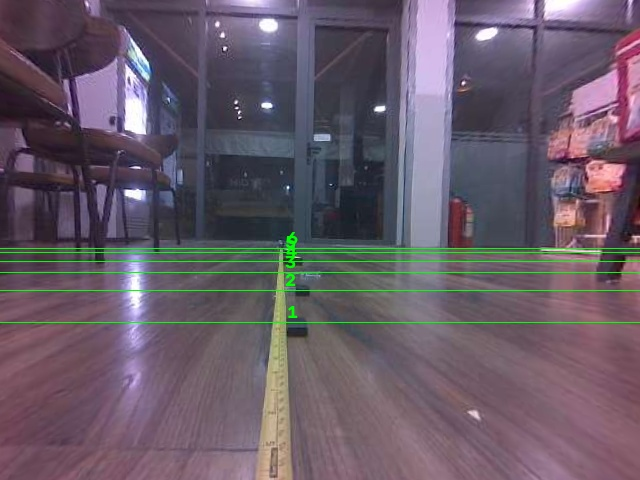
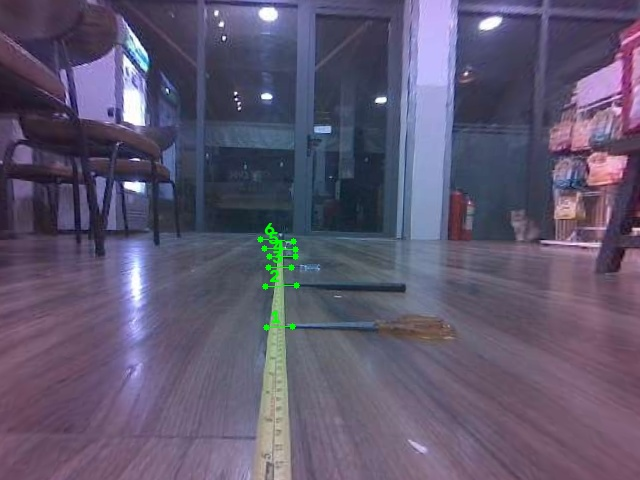
Camera pose: H_cam 0.101 m, pitch 2.6 deg down (1.5 m mark excluded as an outlier); roll and click-order handling, tape_angle tool

diff --git a/tools/measure_camera_pose.py b/tools/measure_camera_pose.py
@@ -3,7 +3,7 @@
   1. Robot on a level floor, camera as it will be used (wedge on or off: do both, one --tag each). Lay tape strips across the floor straight ahead
      of the lens at the distances in --marks, measured from the point on the floor directly UNDER THE LENS (plumb line: a weight on a string).
   2. python -m tools.measure_camera_pose --marks 0.3 0.5 0.75 1.0 1.5 2.0 --h-tape 0.105 --tag nowedge
-     It grabs a frame from the robot (or --image file), undistorts it with calib/camera.json, and you click the near edge of each strip in the
+     It grabs a frame from the robot (or --image file), undistorts it with calib/camera.json, and you click the two ENDS of the near edge of each strip (left, right) in the
      order of --marks (u = undo, Enter = done). It fits H_cam and the pitch of  d = H / tan(pitch + atan((v - cy) / fy)).
   3. --h-tape is the lens height measured with a tape: the fit must agree within 1.5 cm (a tape cannot find a fisheye lens's optical centre better than that), otherwise a mark or a distance is wrong.
 Writes calib/camera_pose_<tag>.json and an annotated picture next to it (evidence: copy to reports/<handle>/week-NN/).
@@ -39,18 +39,38 @@ def undistorted(img, cam):
     return cv2.remap(img, m1, m2, cv2.INTER_LINEAR)
 
 
+def centre_rows(pts, cx, cy=None):
+    """pts: 2 clicks per strip (one at each end). -> rows at x = cx, slopes (deg), roll (deg).
+    The median slope is taken as camera roll and the clicks are rotated about (cx, cy) by -roll first; a strip that still deviates from it is a badly laid strip."""
+    pts = [q for a, b in zip(pts[0::2], pts[1::2]) for q in sorted([a, b])]   # left end first, whichever end was clicked first
+    slopes = [math.degrees(math.atan2(y2 - y1, x2 - x1)) for (x1, y1), (x2, y2) in zip(pts[0::2], pts[1::2])]
+    roll = float(np.median(slopes)) if cy is not None else 0.0
+    if roll:
+        c, s_ = math.cos(math.radians(-roll)), math.sin(math.radians(-roll))
+        pts = [(cx + c * (x - cx) - s_ * (y - cy), cy + s_ * (x - cx) + c * (y - cy)) for x, y in pts]
+    rows = []
+    for (x1, y1), (x2, y2) in zip(pts[0::2], pts[1::2]):
+        if x1 == x2:
+            raise ValueError("click the two ends of a strip at different x")
+        rows.append(y1 + (y2 - y1) * (cx - x1) / (x2 - x1))
+    return rows, slopes, roll
+
+
 def click_rows(img, n):
     import cv2
     pts, shown = [], img.copy()
+    cv2.line(shown, (int(img.shape[1] / 2), 0), (int(img.shape[1] / 2), img.shape[0]), (255, 0, 0), 1)
 
     def draw():
         shown[:] = img
         for i, (x, y) in enumerate(pts):
-            cv2.line(shown, (0, y), (img.shape[1] - 1, y), (0, 255, 0), 1)
-            cv2.putText(shown, str(i + 1), (x + 4, y - 4), cv2.FONT_HERSHEY_SIMPLEX, 0.6, (0, 255, 0), 2)
+            cv2.circle(shown, (x, y), 3, (0, 255, 0), -1)
+            if i % 2:
+                cv2.line(shown, pts[i - 1], (x, y), (0, 255, 0), 1)
+                cv2.putText(shown, str(i // 2 + 1), (x + 4, y - 4), cv2.FONT_HERSHEY_SIMPLEX, 0.6, (0, 255, 0), 2)
 
     def on(ev, x, y, *_):
-        if ev == cv2.EVENT_LBUTTONDOWN and len(pts) < n:
+        if ev == cv2.EVENT_LBUTTONDOWN and len(pts) < 2 * n:
             pts.append((x, y))
             draw()
 
@@ -62,7 +82,7 @@ def click_rows(img, n):
         if k == ord("u") and pts:
             pts.pop()
             draw()
-        elif k in (13, 32) and len(pts) == n:
+        elif k in (13, 32) and len(pts) == 2 * n:
             break
         elif k == ord("q"):
             raise SystemExit("aborted")
@@ -89,16 +109,21 @@ def main():
             f = rx.read(timeout=10)
         img = f.frame_bgr
     und = undistorted(img, cam)
+    Path("calib").mkdir(exist_ok=True)
+    cv2.imwrite("calib/camera_pose_%s_raw.jpg" % a.tag, img)   # the untouched frame, so a run can be redone with --image
     pts, shown = click_rows(und, len(a.marks))
-    fy, cy = cam["K"][1][1], cam["K"][1][2]
-    H, pitch, rms, res = fit_pose([y for _, y in pts], a.marks, fy, cy)
+    fy, cx, cy = cam["K"][1][1], cam["K"][0][2], cam["K"][1][2]
+    rows, slopes, roll = centre_rows(pts, cx, cy)
+    H, pitch, rms, res = fit_pose(rows, a.marks, fy, cy)
     problems = []
+    if max(slopes) - min(slopes) > 6:   # strips are only ~30 px wide in the image: 1 px of click error = 2 deg
+        problems.append("the strips slope by different angles (%.1f to %.1f deg): not laid parallel, or marks not square to the camera" % (min(slopes), max(slopes)))
     if abs(H - a.h_tape) > 0.015:
         problems.append("fitted H %.3f m differs from the tape %.3f m by more than 1.5 cm" % (H, a.h_tape))
     if rms > a.max_rms_m:
         problems.append("rms %.1f cm > %.0f cm: a mark or a distance is off (residuals %s cm)" % (100 * rms, 100 * a.max_rms_m, np.round(100 * res, 1).tolist()))
     out = {"tag": a.tag, "H_cam_m": round(H, 4), "H_tape_m": a.h_tape, "pitch_down_deg": round(pitch, 2), "rms_m": round(rms, 4),
-           "marks_m": a.marks, "rows_px": [y for _, y in pts], "residuals_m": np.round(res, 4).tolist(), "passed": not problems, "problems": problems}
+           "marks_m": a.marks, "clicks_px": [list(q) for q in pts], "rows_px": [round(r, 1) for r in rows], "camera_roll_deg": round(roll, 2), "strip_slopes_deg": [round(x, 2) for x in slopes], "residuals_m": np.round(res, 4).tolist(), "passed": not problems, "problems": problems}
     p = Path("calib") / ("camera_pose_%s.json" % a.tag)
     p.write_text(json.dumps(out, indent=2), encoding="utf-8")
     cv2.imwrite(str(p.with_suffix(".jpg")), shown)

diff --git a/tools/tape_angle.py b/tools/tape_angle.py
@@ -1,0 +1,64 @@
+"""Correct a camera-pose run for a tape that was not laid exactly along the optical axis.
+
+  python -m tools.tape_angle --image calib/camera_pose_nowedge.jpg --run calib/camera_pose_nowedge.json
+Click the START (near end) and the END (far end) of the tape in the UNDISTORTED picture, then Enter. The tape's vanishing point gives its angle to the
+optical axis (yaw); marks at tape distance s are then s*cos(yaw) ahead of the lens. Refits H and pitch and writes <run>_yawfix.json.
+"""
+import argparse
+import json
+import math
+
+import numpy as np
+
+from tools.measure_camera_pose import fit_pose
+
+
+def tape_yaw_deg(p0, p1, cx, fx, horizon_row):
+    """p0, p1: two points (x, y) on the tape in the undistorted image; horizon_row: row of the horizon. -> angle of the tape to the optical axis, degrees."""
+    (x0, y0), (x1, y1) = p0, p1
+    if y0 == y1:
+        raise ValueError("start and end of the tape are on the same row")
+    x_vp = x0 + (x1 - x0) * (horizon_row - y0) / (y1 - y0)   # where the line reaches the horizon
+    return math.degrees(math.atan((x_vp - cx) / fx))
+
+
+def main():
+    import cv2
+    ap = argparse.ArgumentParser()
+    ap.add_argument("--image", required=True)
+    ap.add_argument("--run", required=True, help="the camera_pose_<tag>.json of that photo")
+    ap.add_argument("--camera", default="calib/camera.json")
+    a = ap.parse_args()
+    cam, run = json.load(open(a.camera)), json.load(open(a.run))
+    fx, fy, cx, cy = cam["K"][0][0], cam["K"][1][1], cam["K"][0][2], cam["K"][1][2]
+    img, pts = cv2.imread(a.image), []
+
+    def on(ev, x, y, *_):
+        if ev == cv2.EVENT_LBUTTONDOWN and len(pts) < 2:
+            pts.append((x, y))
+            cv2.circle(img, (x, y), 4, (0, 0, 255), -1)
+
+    cv2.namedWindow("tape")
+    cv2.setMouseCallback("tape", on)
+    print("click the near end, then the far end of the tape; Enter = done, q = abort")
+    while True:
+        cv2.imshow("tape", img)
+        k = cv2.waitKey(30) & 0xFF
+        if k == ord("q"):
+            raise SystemExit("aborted")
+        if k in (13, 32) and len(pts) == 2:
+            break
+    cv2.destroyAllWindows()
+    horizon = cy - fy * math.tan(math.radians(run["pitch_down_deg"]))   # level camera: horizon at cy; pitched down: above it
+    yaw = tape_yaw_deg(pts[0], pts[1], cx, fx, horizon)
+    d = [m * math.cos(math.radians(yaw)) for m in run["marks_m"]]
+    H, pitch, rms, res = fit_pose(run["rows_px"], d, fy, cy)
+    out = dict(run, tape_yaw_deg=round(yaw, 2), H_cam_m=round(H, 4), pitch_down_deg=round(pitch, 2), rms_m=round(rms, 4), forward_m=[round(x, 3) for x in d],
+               residuals_m=np.round(res, 4).tolist(), tape_clicks=pts)
+    p = a.run.replace(".json", "_yawfix.json")
+    open(p, "w").write(json.dumps(out, indent=2))
+    print("tape yaw %.2f deg: H %.4f m (tape %.3f), pitch %.2f deg down, rms %.1f cm -> %s" % (yaw, H, run["H_tape_m"], pitch, 100 * rms, p))
+
+
+if __name__ == "__main__":
+    main()

diff --git a/tests/test_measure_camera_pose.py b/tests/test_measure_camera_pose.py
@@ -18,3 +18,25 @@ def test_fit_recovers_height_and_tilt():
         v = np.array(rows_for(H, pitch, marks)) + np.random.default_rng(0).normal(0, 0.7, len(marks))   # ~1 px click error
         h, p, rms, _ = fit_pose(v, marks, FY, CY)
         assert abs(h - H) < 0.01 and abs(p - pitch) < 1.5 and rms < 0.02, (H, pitch, h, p, rms)
+
+
+def test_centre_row_ignores_where_on_a_tilted_strip_you_click():
+    from tools.measure_camera_pose import centre_rows
+    rows, slopes, roll = centre_rows([(100, 210), (500, 190), (50, 300), (600, 300)], 300)   # no cy: no roll correction
+    assert abs(rows[0] - 200) < 1e-9 and abs(rows[1] - 300) < 1e-9 and abs(slopes[0] + 2.86) < 0.01 and roll == 0
+
+
+def test_camera_roll_is_measured_and_removed():
+    from tools.measure_camera_pose import centre_rows
+    a = math.radians(6)   # every strip slants 6 deg: a rolled camera; strips at rows 100 and 200 once derotated
+    def rot(x, y): return 300 + math.cos(a) * (x - 300) - math.sin(a) * (y - 240), 240 + math.sin(a) * (x - 300) + math.cos(a) * (y - 240)
+    pts = [rot(x, y) for y in (100, 200) for x in (50, 550)]
+    rows, slopes, roll = centre_rows(pts, 300, 240)
+    assert abs(roll - 6) < 1e-6 and abs(rows[0] - 100) < 1e-6 and abs(rows[1] - 200) < 1e-6
+
+
+def test_click_order_does_not_matter():
+    from tools.measure_camera_pose import centre_rows
+    a = centre_rows([(100, 210), (500, 190), (600, 300), (50, 300)], 300, 240)   # second strip clicked right end first
+    b = centre_rows([(500, 190), (100, 210), (50, 300), (600, 300)], 300, 240)
+    assert a[0] == b[0] and all(abs(x) < 15 for x in a[1])

diff --git a/tests/test_tape_angle.py b/tests/test_tape_angle.py
@@ -1,0 +1,16 @@
+import math
+
+from tools.tape_angle import tape_yaw_deg
+
+FX, CX = 310.0, 286.0
+
+
+def test_tape_along_the_axis_has_no_yaw_and_a_rotated_one_is_measured():
+    # a tape along the optical axis, 0.1 m to the side of it, on a level camera at H = 0.1 m (horizon row 240)
+    def px(forward, side, yaw):
+        a = math.radians(yaw)
+        x_cam, z = side + forward * math.sin(a), forward * math.cos(a)   # tape rotated by yaw about the lens foot
+        return CX + FX * x_cam / z, 240 + 306 * 0.1 / z
+    for yaw in (0.0, 3.0, -5.0):
+        p0, p1 = px(0.5, 0.0, yaw), px(3.0, 0.0, yaw)
+        assert abs(tape_yaw_deg(p0, p1, CX, FX, 240) - yaw) < 0.05
